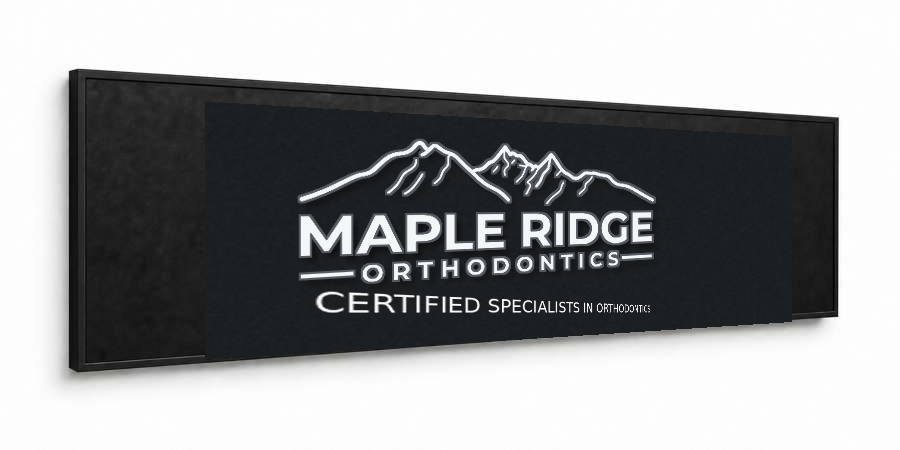
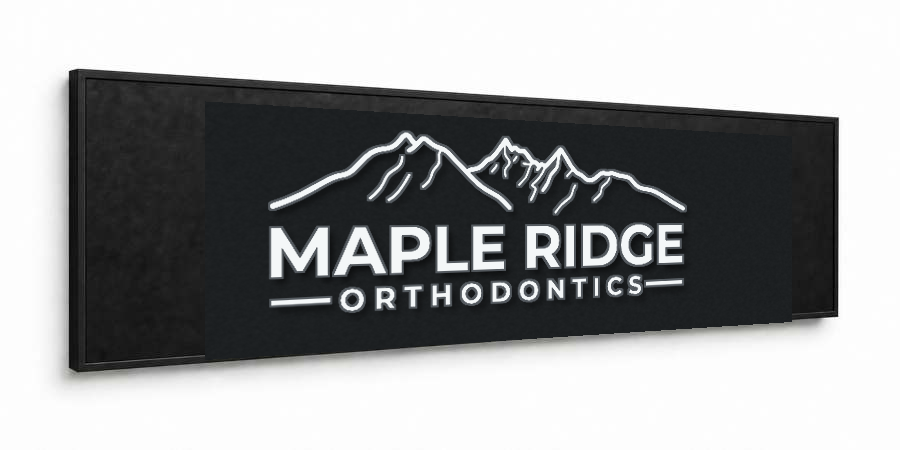
Update Maple Ridge exterior signage option 2

Changed region(s): [[0.28, 0.28, 0.7778, 0.7156]]

diff --git a/presentations/913026-maple-ridge-orthodontic-exterior-window-graphics/artwork-approval/index.html b/presentations/913026-maple-ridge-orthodontic-exterior-window-graphics/artwork-approval/index.html
@@ -1,1 +1,1 @@
-<!doctype html><html lang="en"><head><meta charset="utf-8"><meta name="viewport" content="width=device-width,initial-scale=1"><title>Maple Ridge | Artwork Approval</title><link rel="preconnect" href="https://fonts.googleapis.com"><link href="https://fonts.googleapis.com/css2?family=DM+Sans:wght@400;500;600;700&family=Montserrat:wght@700;800;900&display=swap" rel="stylesheet"><link rel="stylesheet" href="approval.css"></head><body><header class="nav"><a href="../"><img class="logo" src="assets/can-design-logo-horizontal.png" alt="Can-Design"></a><a class="back" href="../">← Return to accepted presentation</a></header><section class="hero"><p class="kicker">Maple Ridge Orthodontics · Artwork approval</p><h1>Final artwork.<br><span>One clear review.</span></h1><p>Window graphics and exterior signage options, presented together for one consolidated review.</p></section><main class="wrap"><div class="status"><div><strong>Review status: awaiting client approval</strong><p>These pages show the supplied final mockups only. No production release, print specification, or installation authorization is implied by this review set.</p></div></div><article class="art-card"><img src="assets/entire-window-spread-final.png" alt="Entire Maple Ridge Orthodontics window artwork spread"><div class="art-copy"><p class="tag">Overall reference</p><h2>Entire artwork spread</h2><p>Final supplied overview of the complete window-graphics spread.</p></div></article><article class="art-card"><img src="assets/window-1-2-final.png" alt="Final full-building mockup for Windows 1 and 2"><div class="art-copy"><p class="tag">Package 01</p><h2>Windows 1 &amp; 2</h2><p>Final supplied visual for client review.</p></div></article><article class="art-card"><img src="assets/window-3-final.png" alt="Final full-building mockup for Window 3"><div class="art-copy"><p class="tag">Package 02</p><h2>Window 3</h2><p>Final supplied visual for client review.</p></div></article><article class="art-card"><img src="assets/window-4-5-final.png" alt="Final full-building mockup for Windows 4 and 5"><div class="art-copy"><p class="tag">Package 03</p><h2>Windows 4 &amp; 5</h2><p>Final supplied visual for client review.</p></div></article><article class="art-card"><img src="assets/window-6-final.png" alt="Final full-building mockup for Window 6"><div class="art-copy"><p class="tag">Package 04</p><h2>Window 6</h2><p>Final supplied visual for client review.</p></div></article><article class="art-card"><img src="assets/window-7-final.png" alt="Final artwork visual for Window 7"><div class="art-copy"><p class="tag">Package 05</p><h2>Window 7</h2><p>Final supplied visual for client review.</p></div></article><div class="status"><div><strong>Exterior signage · select one option</strong><p>Both options use 1/2-inch dimensional letters for the mountain mark, MAPLE RIDGE, and ORTHODONTICS. “CERTIFIED SPECIALISTS IN ORTHODONTICS” remains flat lettering.</p></div></div><article class="art-card"><img src="assets/maple-ridge-option-1-final-signage.png" alt="Exterior signage option 1 for Maple Ridge Orthodontics"><div class="art-copy"><p class="tag">Exterior signage · option 1</p><h2>Option 1</h2><p>Final supplied logo rendered as 1/2-inch dimensional main lettering, with the certification line kept flat.</p></div></article><article class="art-card"><img src="assets/maple-ridge-option-2-final-signage.png" alt="Exterior signage option 2 for Maple Ridge Orthodontics"><div class="art-copy"><p class="tag">Exterior signage · option 2</p><h2>Option 2</h2><p>Alternate dimensional signage treatment, with the certification line kept flat.</p></div></article><div class="status"><div><strong>Approval checklist</strong><p>Please confirm the overall spread, each window graphic, and one exterior signage option. Artwork remains approval-pending until written client confirmation is received.</p></div></div><a class="back" href="../">← Return to accepted presentation</a></main><footer class="footer"><img src="assets/can-design-logo-horizontal.png" alt="Can-Design"><p>Artwork approval review · Maple Ridge Orthodontics · Prepared by Can-Design</p></footer></body></html>
+<!doctype html><html lang="en"><head><meta charset="utf-8"><meta name="viewport" content="width=device-width,initial-scale=1"><title>Maple Ridge | Artwork Approval</title><link rel="preconnect" href="https://fonts.googleapis.com"><link href="https://fonts.googleapis.com/css2?family=DM+Sans:wght@400;500;600;700&family=Montserrat:wght@700;800;900&display=swap" rel="stylesheet"><link rel="stylesheet" href="approval.css"></head><body><header class="nav"><a href="../"><img class="logo" src="assets/can-design-logo-horizontal.png" alt="Can-Design"></a><a class="back" href="../">← Return to accepted presentation</a></header><section class="hero"><p class="kicker">Maple Ridge Orthodontics · Artwork approval</p><h1>Final artwork.<br><span>One clear review.</span></h1><p>Window graphics and exterior signage options, presented together for one consolidated review.</p></section><main class="wrap"><div class="status"><div><strong>Review status: awaiting client approval</strong><p>These pages show the supplied final mockups only. No production release, print specification, or installation authorization is implied by this review set.</p></div></div><article class="art-card"><img src="assets/entire-window-spread-final.png" alt="Entire Maple Ridge Orthodontics window artwork spread"><div class="art-copy"><p class="tag">Overall reference</p><h2>Entire artwork spread</h2><p>Final supplied overview of the complete window-graphics spread.</p></div></article><article class="art-card"><img src="assets/window-1-2-final.png" alt="Final full-building mockup for Windows 1 and 2"><div class="art-copy"><p class="tag">Package 01</p><h2>Windows 1 &amp; 2</h2><p>Final supplied visual for client review.</p></div></article><article class="art-card"><img src="assets/window-3-final.png" alt="Final full-building mockup for Window 3"><div class="art-copy"><p class="tag">Package 02</p><h2>Window 3</h2><p>Final supplied visual for client review.</p></div></article><article class="art-card"><img src="assets/window-4-5-final.png" alt="Final full-building mockup for Windows 4 and 5"><div class="art-copy"><p class="tag">Package 03</p><h2>Windows 4 &amp; 5</h2><p>Final supplied visual for client review.</p></div></article><article class="art-card"><img src="assets/window-6-final.png" alt="Final full-building mockup for Window 6"><div class="art-copy"><p class="tag">Package 04</p><h2>Window 6</h2><p>Final supplied visual for client review.</p></div></article><article class="art-card"><img src="assets/window-7-final.png" alt="Final artwork visual for Window 7"><div class="art-copy"><p class="tag">Package 05</p><h2>Window 7</h2><p>Final supplied visual for client review.</p></div></article><div class="status"><div><strong>Exterior signage · select one option</strong>Both options use 1/2-inch dimensional letters for the mountain mark, MAPLE RIDGE, and ORTHODONTICS. Option 1 includes “CERTIFIED SPECIALISTS IN ORTHODONTICS” as flat lettering; Option 2 uses the supplied logo-only artwork.</p></div></div><article class="art-card"><img src="assets/maple-ridge-option-1-final-signage.png" alt="Exterior signage option 1 for Maple Ridge Orthodontics"><div class="art-copy"><p class="tag">Exterior signage · option 1</p><h2>Option 1</h2><p>Final supplied logo rendered as 1/2-inch dimensional main lettering, with the certification line kept flat.</p></div></article><article class="art-card"><img src="assets/maple-ridge-option-2-final-signage.png" alt="Exterior signage option 2 for Maple Ridge Orthodontics"><div class="art-copy"><p class="tag">Exterior signage · option 2</p><h2>Option 2</h2>Supplied logo-only artwork rendered as dimensional signage.</p></div></article><div class="status"><div><strong>Approval checklist</strong><p>Please confirm the overall spread, each window graphic, and one exterior signage option. Artwork remains approval-pending until written client confirmation is received.</p></div></div><a class="back" href="../">← Return to accepted presentation</a></main><footer class="footer"><img src="assets/can-design-logo-horizontal.png" alt="Can-Design"><p>Artwork approval review · Maple Ridge Orthodontics · Prepared by Can-Design</p></footer></body></html>
